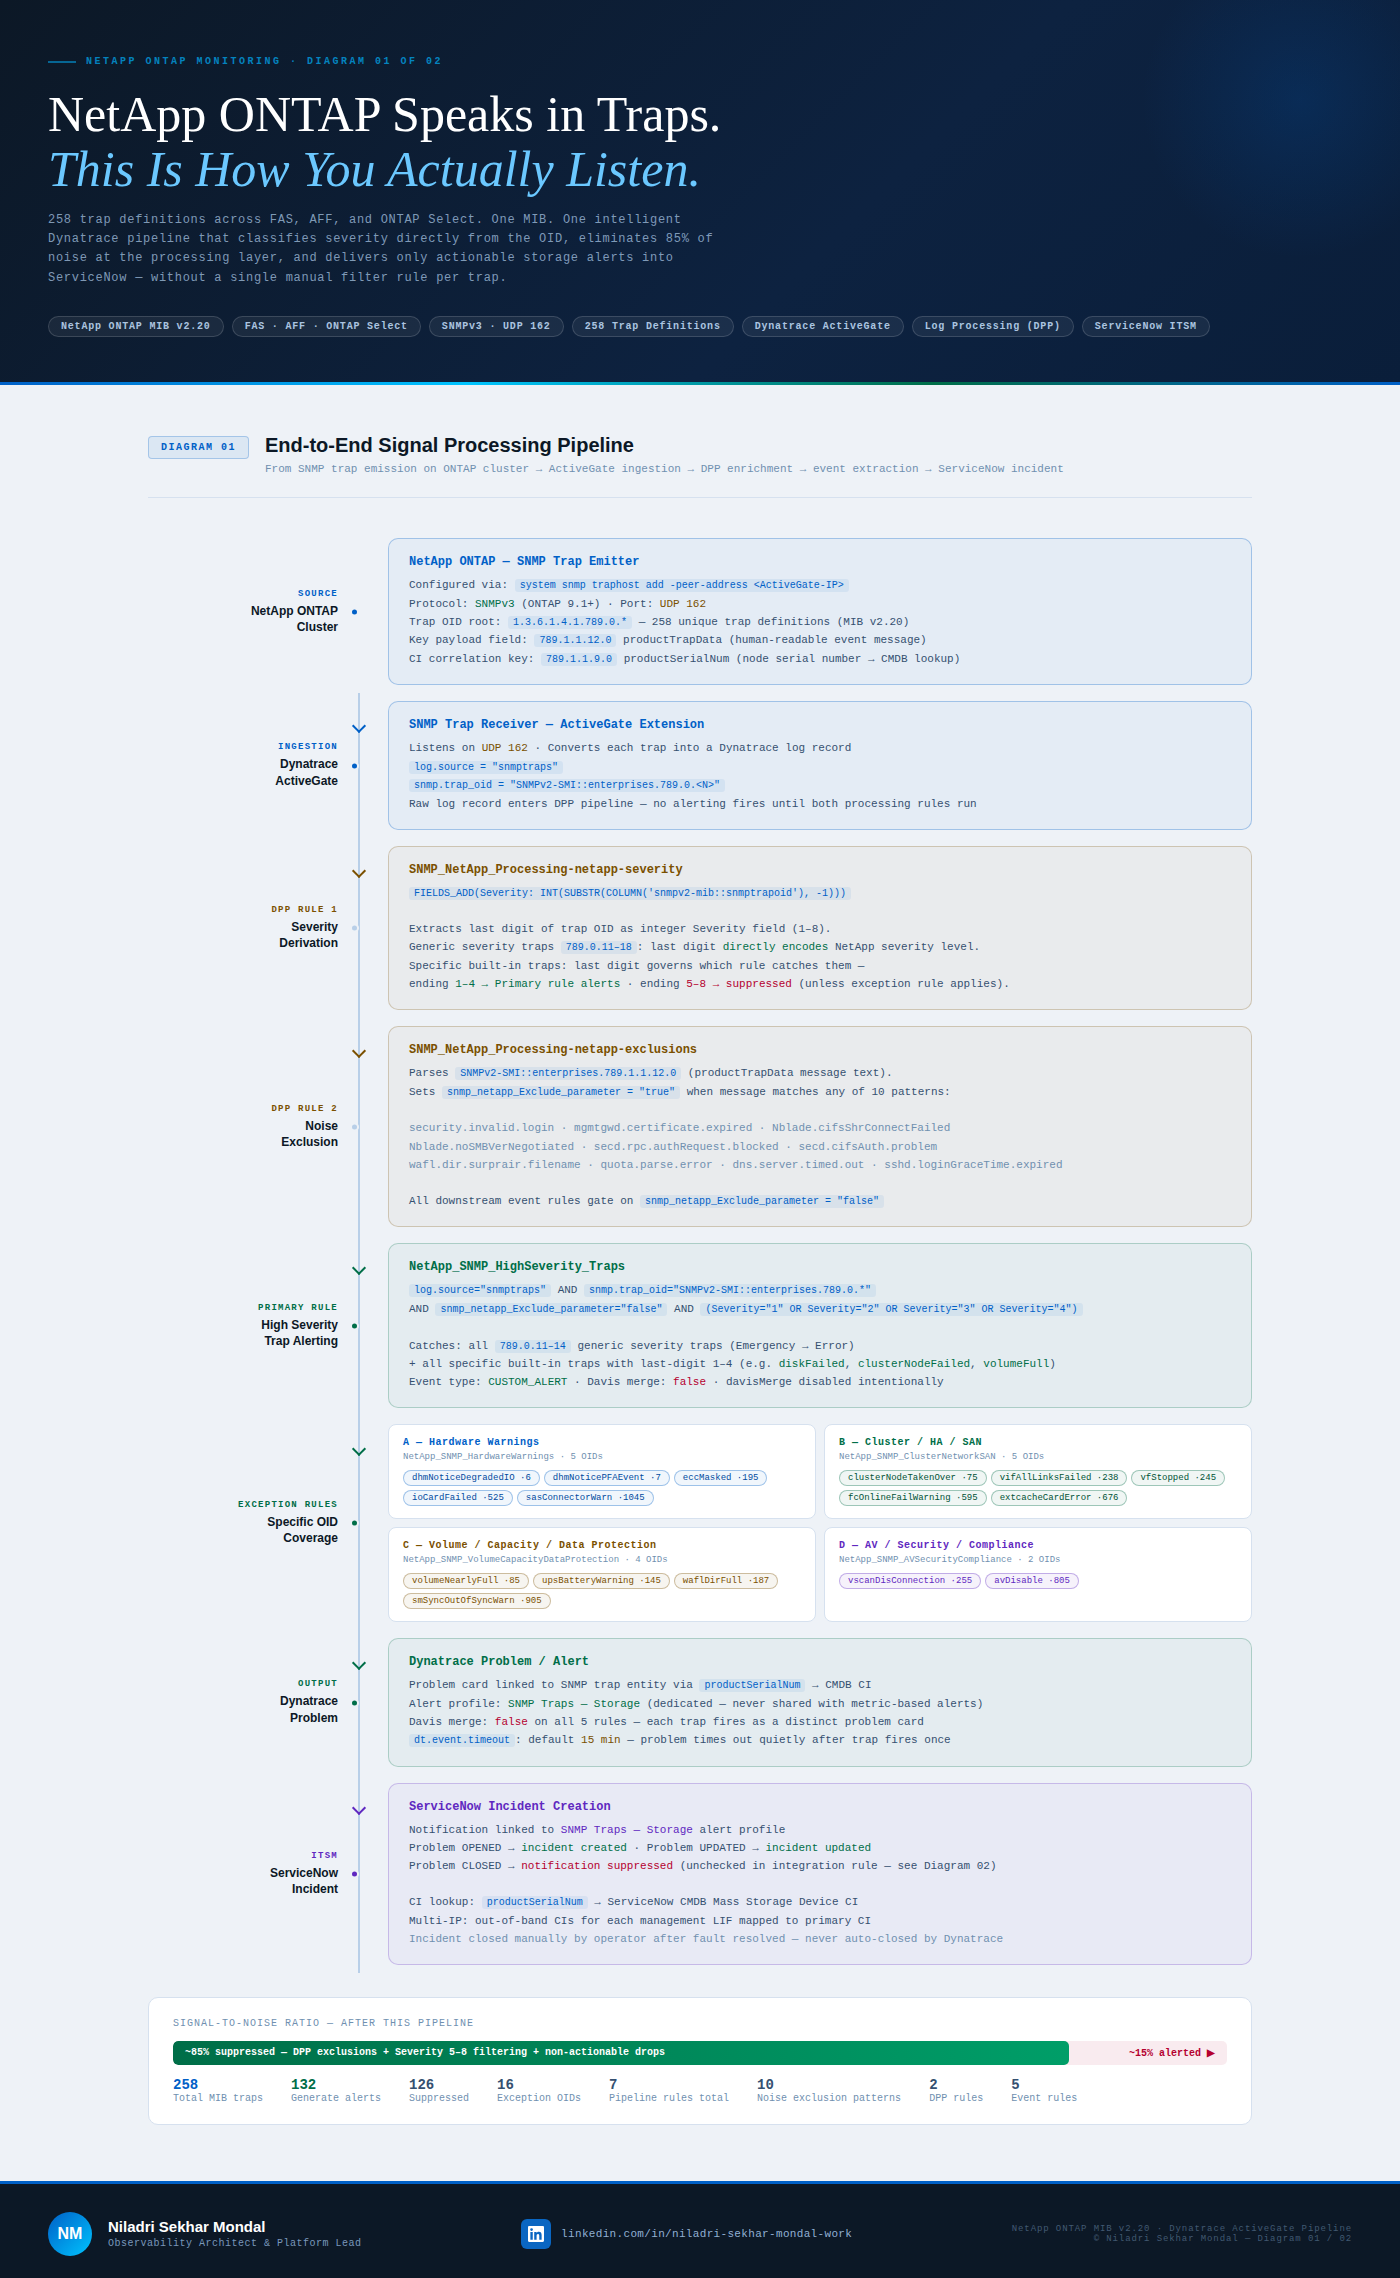
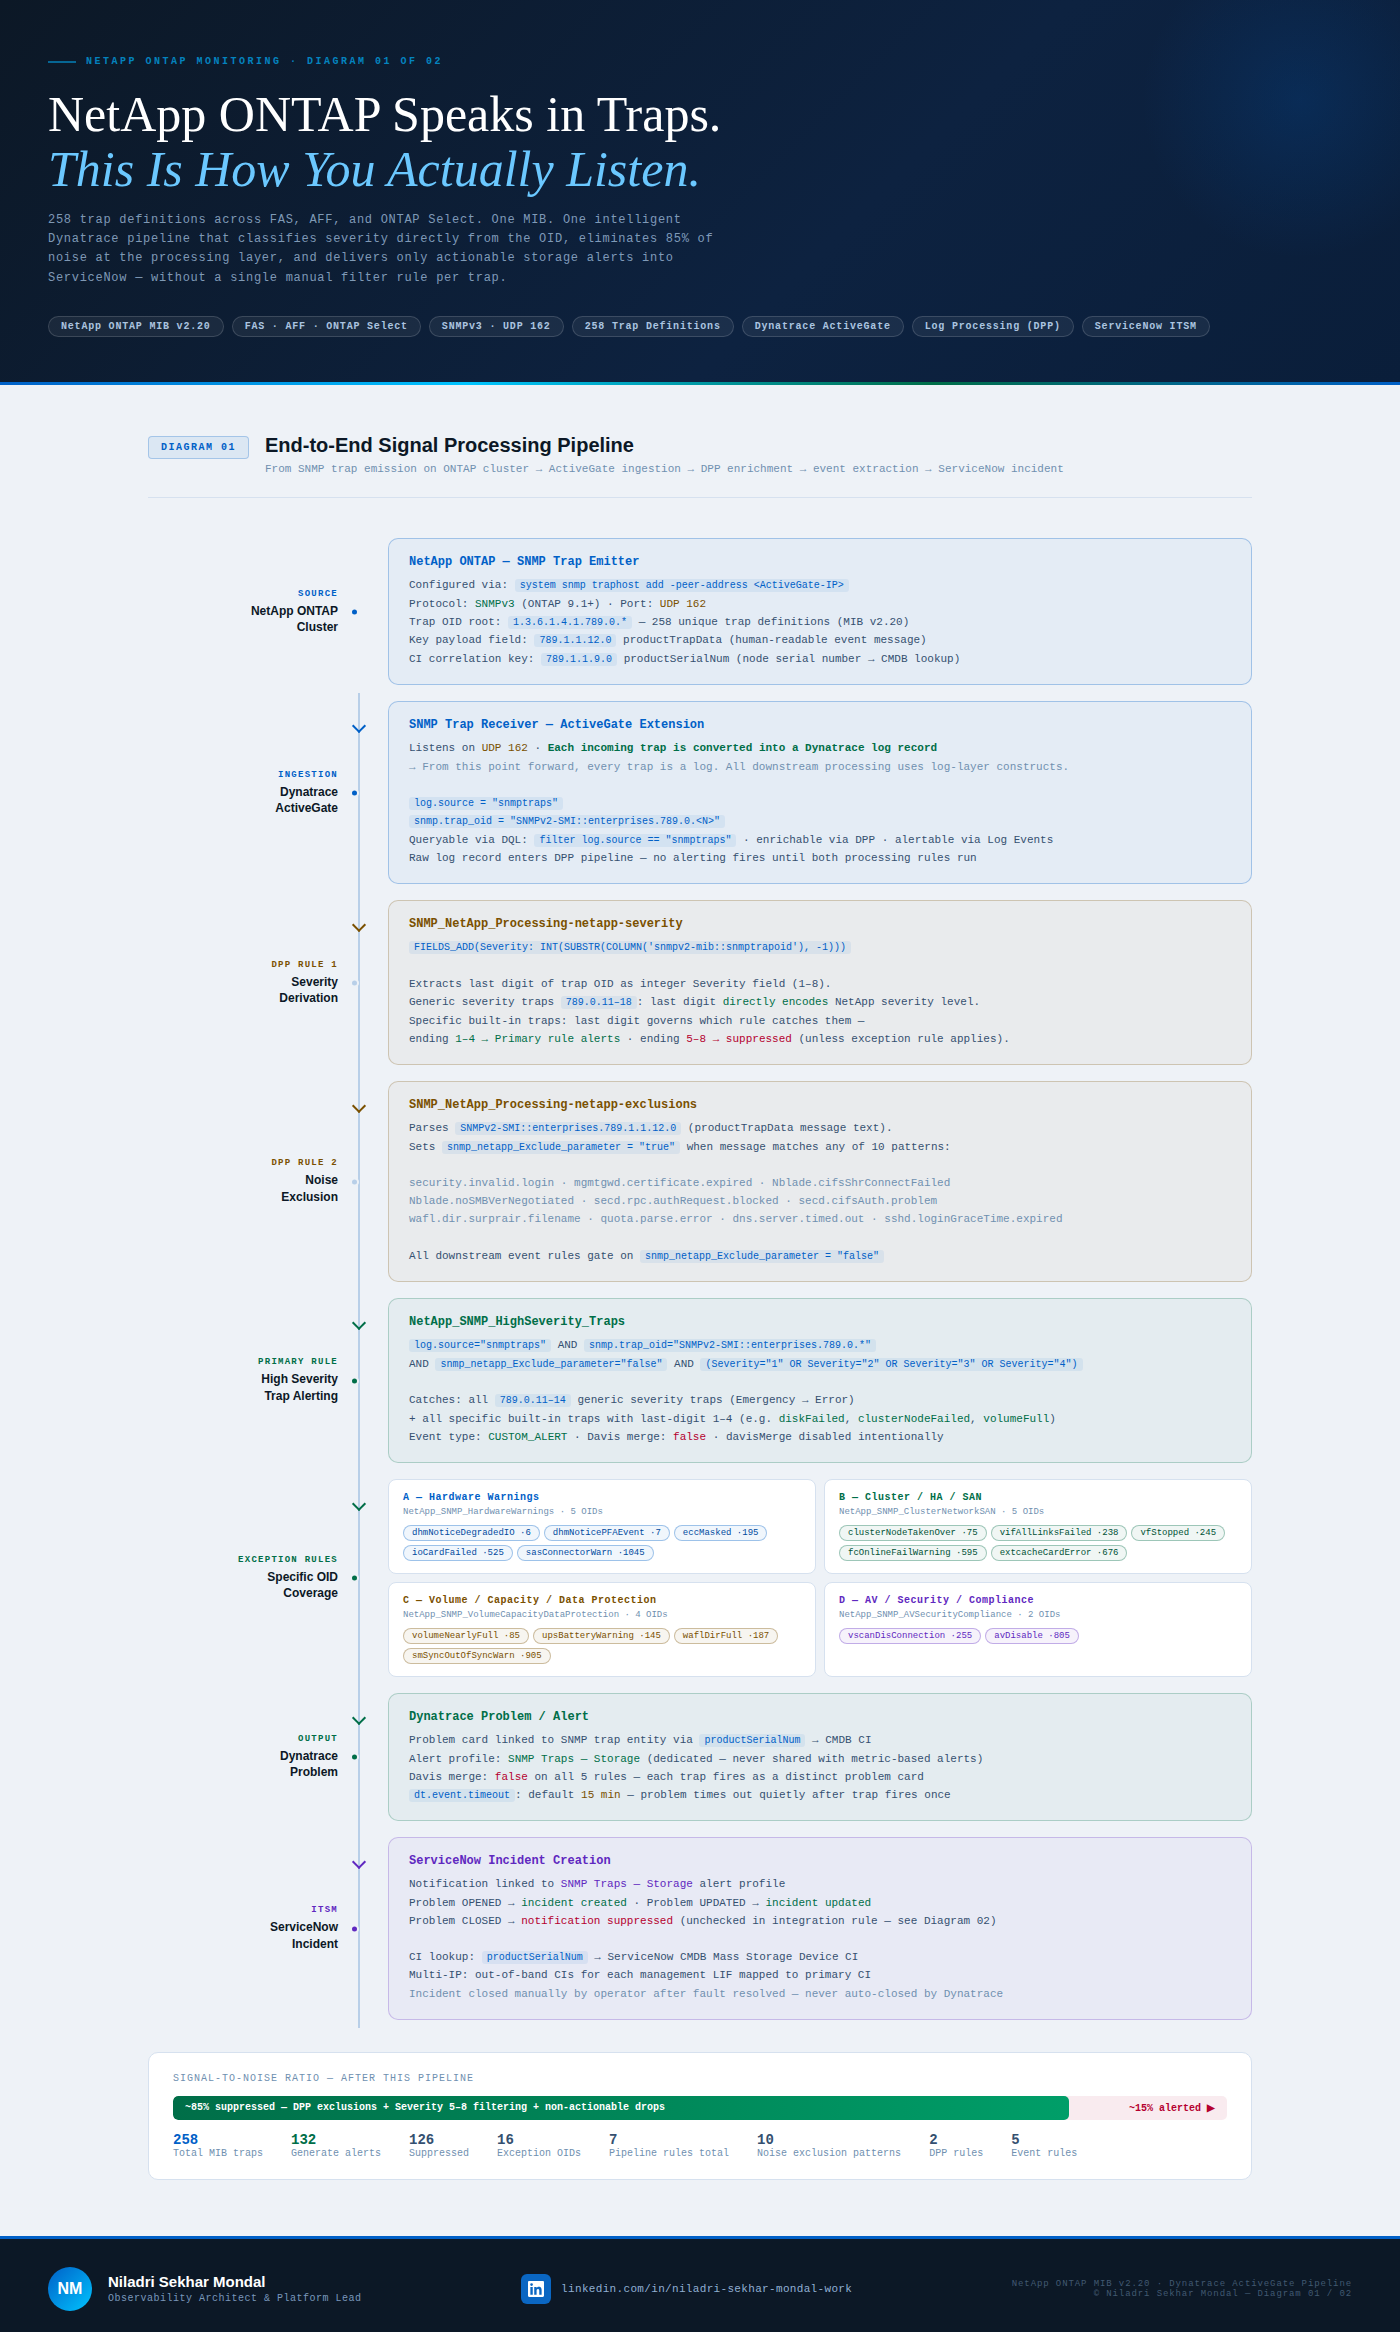
corections

diff --git a/NetApp_ONTAP_SNMP_Dynatrace_Monitoring.md b/NetApp_ONTAP_SNMP_Dynatrace_Monitoring.md
@@ -38,7 +38,7 @@
 
 This solution implements **enterprise-grade SNMP trap monitoring for NetApp FAS/AFF storage systems** using Dynatrace as the observability platform. It covers:
 
-- Full SNMP trap ingestion from NetApp ONTAP clusters via Dynatrace ActiveGate
+- Full SNMP trap ingestion from NetApp ONTAP clusters via Dynatrace ActiveGate — **each trap is converted into a Dynatrace log record** (this is the key architectural fact: from Dynatrace's perspective, traps are logs, not metrics or custom events)
 - Intelligent severity classification directly from the trap OID structure
 - Pre-event noise suppression using Dynatrace Log Processing (DPP) rules
 - High-signal event extraction targeting only Emergency, Alert, Critical, and Error severities
@@ -98,11 +98,9 @@ ServiceNow ITSM — Incident Creation & Routing
 
 > **Key insight:** NetApp ONTAP sends two distinct categories of traps under `1.3.6.1.4.1.789.0.*`. The **generic severity traps** (`789.0.11` through `789.0.18`) follow a fixed scheme where the last digit of the OID directly encodes severity: 1=Emergency, 2=Alert, 3=Critical, 4=Error, 5=Warning, 6=Notification, 7=Informational, 8=Debug. When ONTAP raises any internal event, it fires one of these generic severity traps carrying the event detail in `productTrapData` (OID `789.1.1.12.0`). The **specific built-in traps** (`789.0.21`, `789.0.72`, `789.0.82`, etc.) are named hardware events — their OID numbers are arbitrary identifiers, NOT severity codes. The processing pipeline exploits the generic severity trap structure: extract the last digit, filter on 1–4, and one rule covers the entire ONTAP trap estate.
 
+> **For Dynatrace users — traps are logs:** The Dynatrace ActiveGate SNMP extension converts every incoming SNMP trap into a **Dynatrace log record**. This is the foundational architectural fact of this entire implementation. Once the trap lands in Dynatrace it is a log — queryable via DQL with `filter log.source == "snmptraps"`, enrichable via Log Processing (DPP) rules, and alertable via Log Events (event extraction rules). If you are a Dynatrace engineer approaching this for the first time: think **Logs → DPP → Log Events**, not metrics or custom events. This is why all processing rules, exclusion logic, and event queries in this guide use log-layer constructs.
+
 ---
-
-## Grafical Presenttaion of the Solution
-
-![Compare Integration](img/Diagram1_Pipeline_Architecture.png)
 
 ## NetApp ONTAP SNMP — Fundamentals
 
@@ -283,6 +281,8 @@ snmp test
 The naive approach to SNMP trap monitoring is to create one event extraction rule per OID. For NetApp alone this means 100+ rules — all requiring individual maintenance, individual testing, and individual tuning as trap definitions evolve across ONTAP versions.
 
 This implementation takes a different approach: **use Dynatrace Log Processing (DPP) rules as a pre-filter layer** so that a minimal set of event extraction rules handles the entire NetApp trap estate.
+
+> **Why DPP rules? Because traps are logs.** The Dynatrace ActiveGate SNMP extension converts every SNMP trap into a log record — it does not create a metric data point or a custom event directly. This means every trap is immediately available in the Dynatrace log pipeline, and Log Processing (DPP) rules can enrich, transform, or flag it **before** any event extraction rule evaluates it. This is the architectural leverage point that makes the entire noise-reduction strategy possible. Without this conversion, you would have no pre-processing layer and would be forced into the naive one-rule-per-OID approach.
 
 ```
 Naive Approach:          This Approach:
@@ -713,10 +713,6 @@ The most critical OIDs for observability rule configuration. For the complete tr
 ---
 
 ## ITSM Integration — Incident Lifecycle Design
-
-
-![Compare Integration](img/Diagram2_ITSM_Lifecycle.png)
-
 
 ### The Problem: `dt.event.timeout` and Phantom Auto-Closure
 
